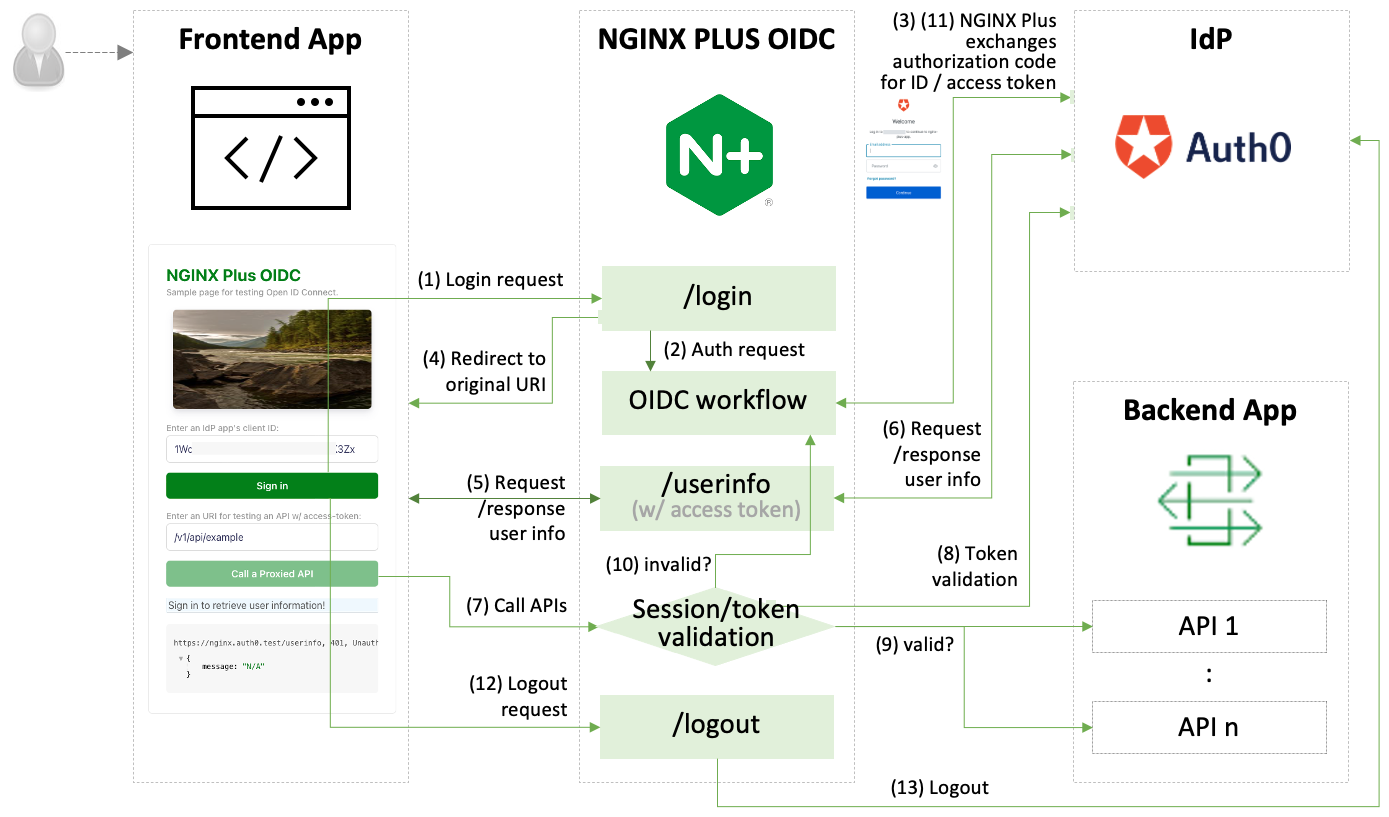
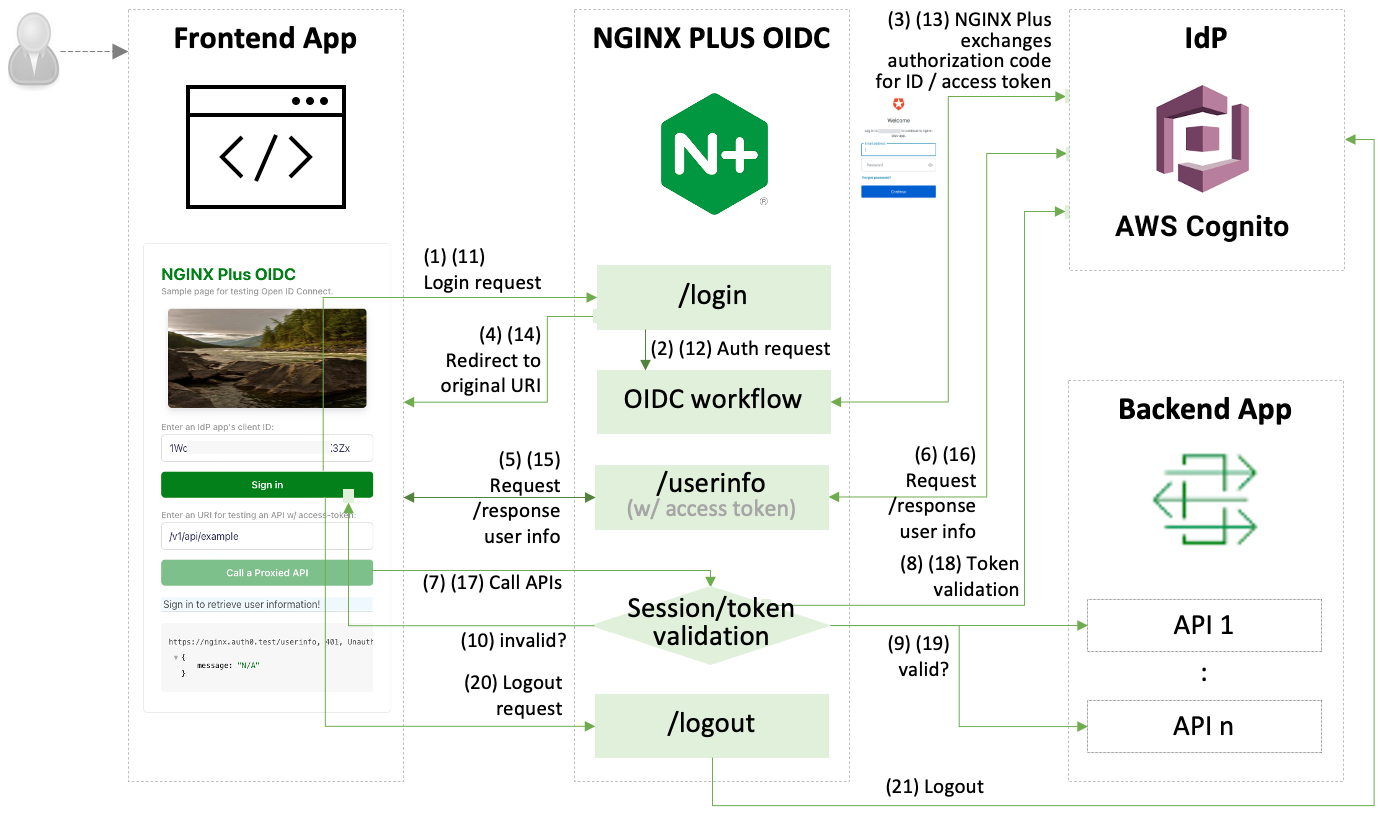
fix: NGINX Plus OIDC workflow w Amazon Cognito

diff --git a/README.md b/README.md
@@ -1,4 +1,4 @@
-# nginx-oidc-amazon-cognito-v2
+# nginx-oidc-amazon-cognito
 
 Reference implementation of NGINX Plus as relying party for OpenID Connect authentication w/ Amazon Cognito.
 
